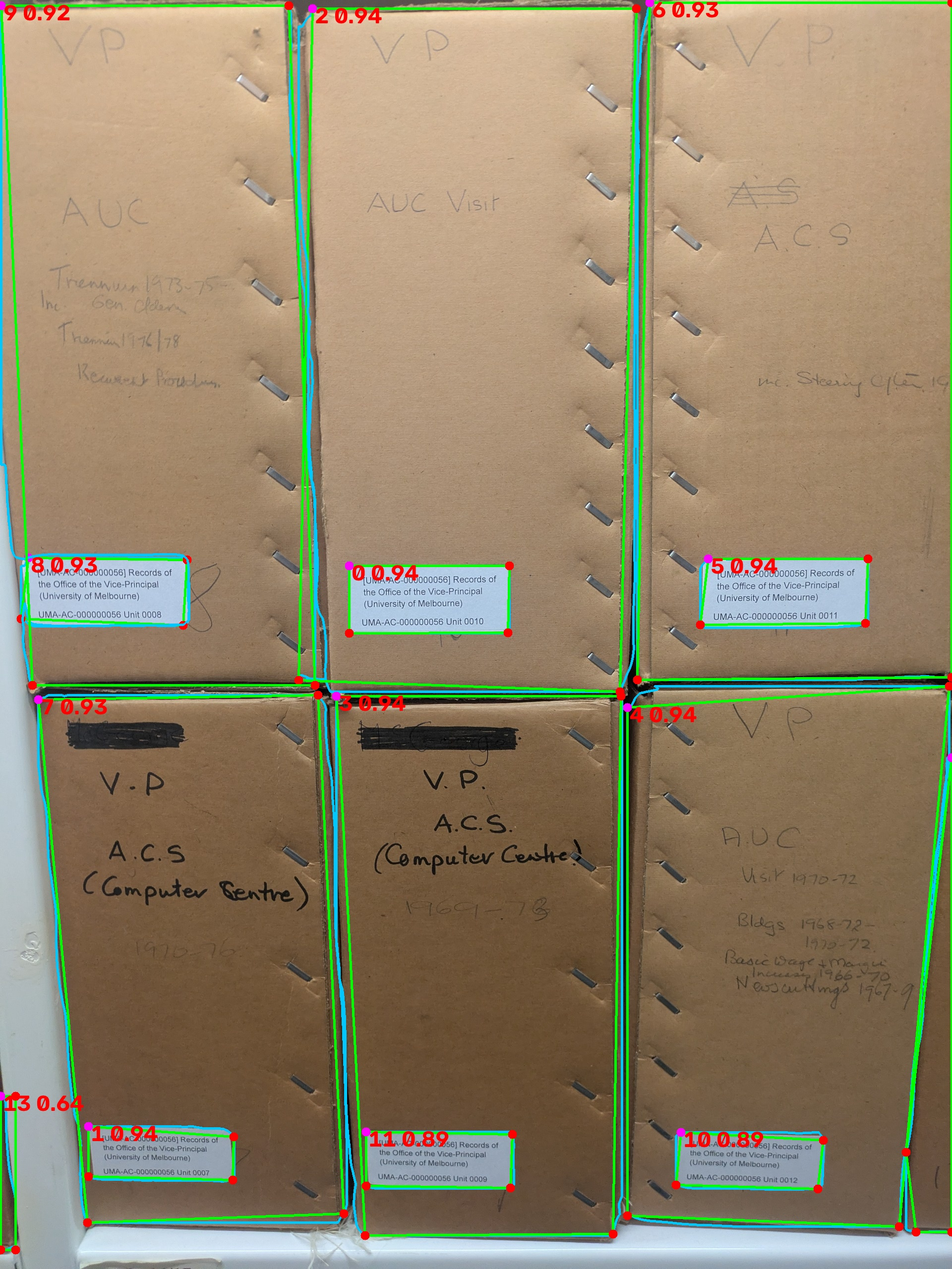
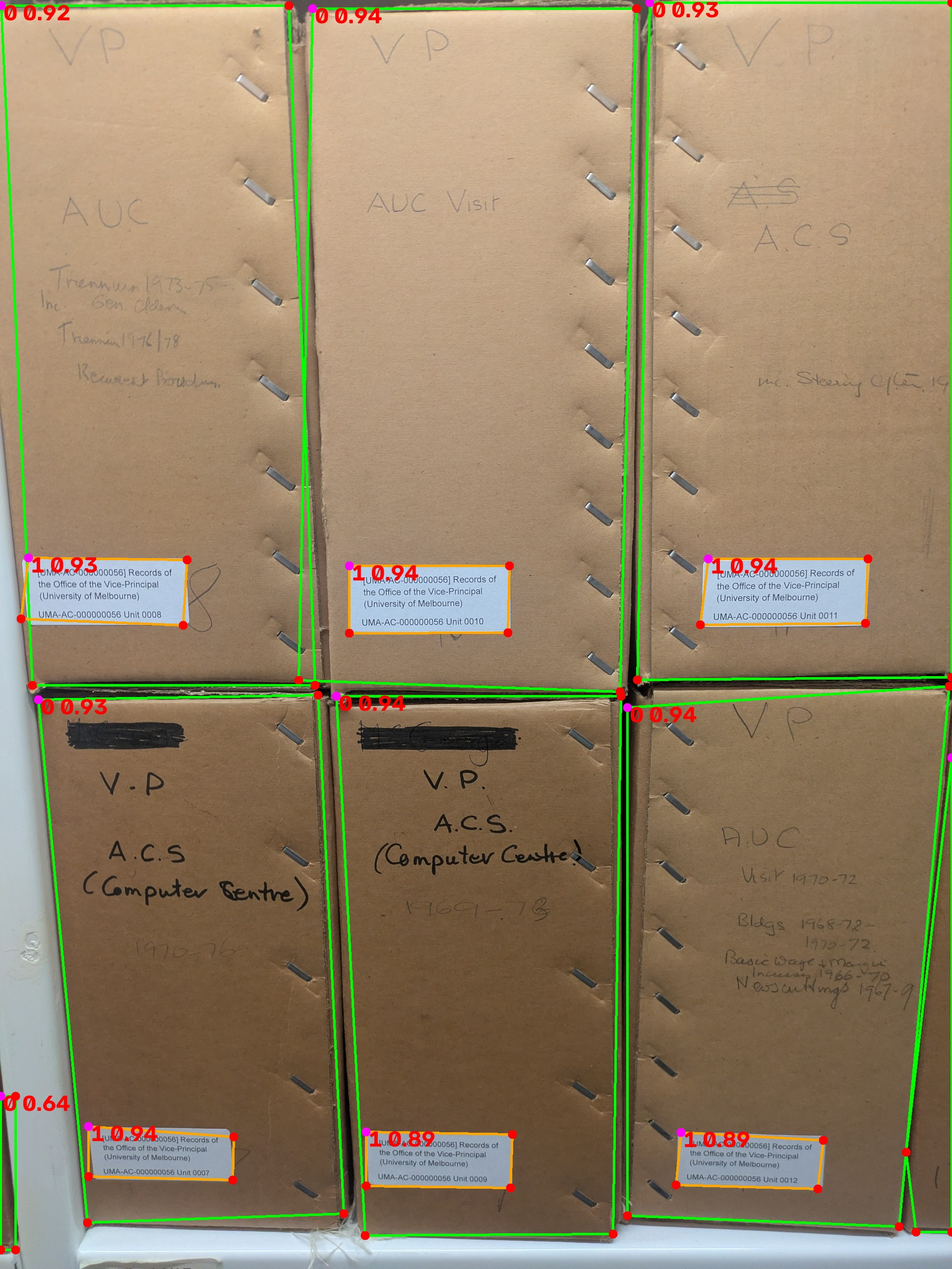
feat: updated segImage to work for every box in Image

diff --git a/lib/src/main/python/model-sandbox/test-harness.py b/lib/src/main/python/model-sandbox/test-harness.py
@@ -4,8 +4,8 @@ import cv2 # OK as part of the ultralytics import anyway
 import numpy as np
 from ultralytics import YOLO
 
-BOX_CLASS = "box"
-STICKER_CLASS = "sticker"
+BOX_CLASS = "Box"
+STICKER_CLASS = "Sticker"
 
 
 def orderCorners(quad):
@@ -32,7 +32,7 @@ def getCornerPoints(polygon):
         polygon (list): List of numpy coordinates containing the predicted outline of the segmented object.
 
     Returns:
-        (list[np.array]): size 4 quadrilateral
+        (list[np.array]): size 4 quadrilateral after reducing mask
     """
     # find the smallest bounding polygon containing all the points of the shaded polygon
     hull = cv2.convexHull(polygon.astype(np.float32))
@@ -116,27 +116,31 @@ def segArchiveImage(model: YOLO, imageDir: str, conf: float =0.5, includeMask: b
         polygons = result.masks.xy
 
         # Ignore non-quadrilaterals and above
-        boxIdx = [i for i, label in enumerate(labels) if label == BOX_CLASS and len(polygons[i]) >= 3]
+        valid = [i for i in range(len(labels)) if len(polygons[i]) >= 3]
+        boxIdx = sorted((i for i in valid if labels[i] == BOX_CLASS), key=lambda i: scores[i], reverse=True)
 
-        if boxIdx:
-            # One box per image is assumed, so keep only the most confident
-            best = max(boxIdx, key=lambda i: scores[i])
-            box, boxQuad = toSegment(polygons[best], scores[best], includeMask)
+        # Key every box as box-N in confidence order
+        boxQuads = []
+        for n, i in enumerate(boxIdx, start=1):
+            box, quad = toSegment(polygons[i], scores[i], includeMask)
+            vertexes[f"box-{n}"] = {"box": box, "sticker": []}
+            boxQuads.append((f"box-{n}", quad))
 
-            stickers = []
-            for i, label in enumerate(labels):
-                if label != STICKER_CLASS or len(polygons[i]) < 3:
-                    continue
-                sticker, quad = toSegment(polygons[i], scores[i], includeMask)
-                # Neighbouring boxes on the shelf often creep into frame; drop their stickers
-                if insideQuad(quad.mean(axis=0), boxQuad):
-                    stickers.append(sticker)
+        for i in valid:
+            if labels[i] != STICKER_CLASS:
+                continue
+            sticker, quad = toSegment(polygons[i], scores[i], includeMask)
+            centre = quad.mean(axis=0)
 
-            vertexes["box-1"] = {"box": box, "sticker": stickers}
+            # Boxes are in confidence order, so a sticker overlapping two boxes goes to the more confident one
+            for boxId, boxQuad in boxQuads:
+                if insideQuad(centre, boxQuad):
+                    vertexes[boxId]["sticker"].append(sticker)
+                    break
 
     detections = {Path(imageDir).name: {"vertexes": vertexes}}
     return detections
-
+    
 def drawDetections(imageDir, detections, outDir):
     # DEBUG ONLY -- used for corner drawing validation
     outDir = Path(outDir)
@@ -181,7 +185,7 @@ model = YOLO(r"lib\src\main\python\model-sandbox\weights\yolo26n-archive-boxes-1
 # segArchiveImage now takes one image, so collect results across the folder here
 detections = {}
 for imagePath in sorted(Path(test_path).glob("*.jpg")):
-    detections.update(segArchiveImage(model, str(imagePath), includeMask=True))
+    detections.update(segArchiveImage(model, str(imagePath), includeMask=False))
 
 print(detections)
-# drawDetections(test_path, detections, test_out_path)
+drawDetections(test_path, detections, test_out_path)
